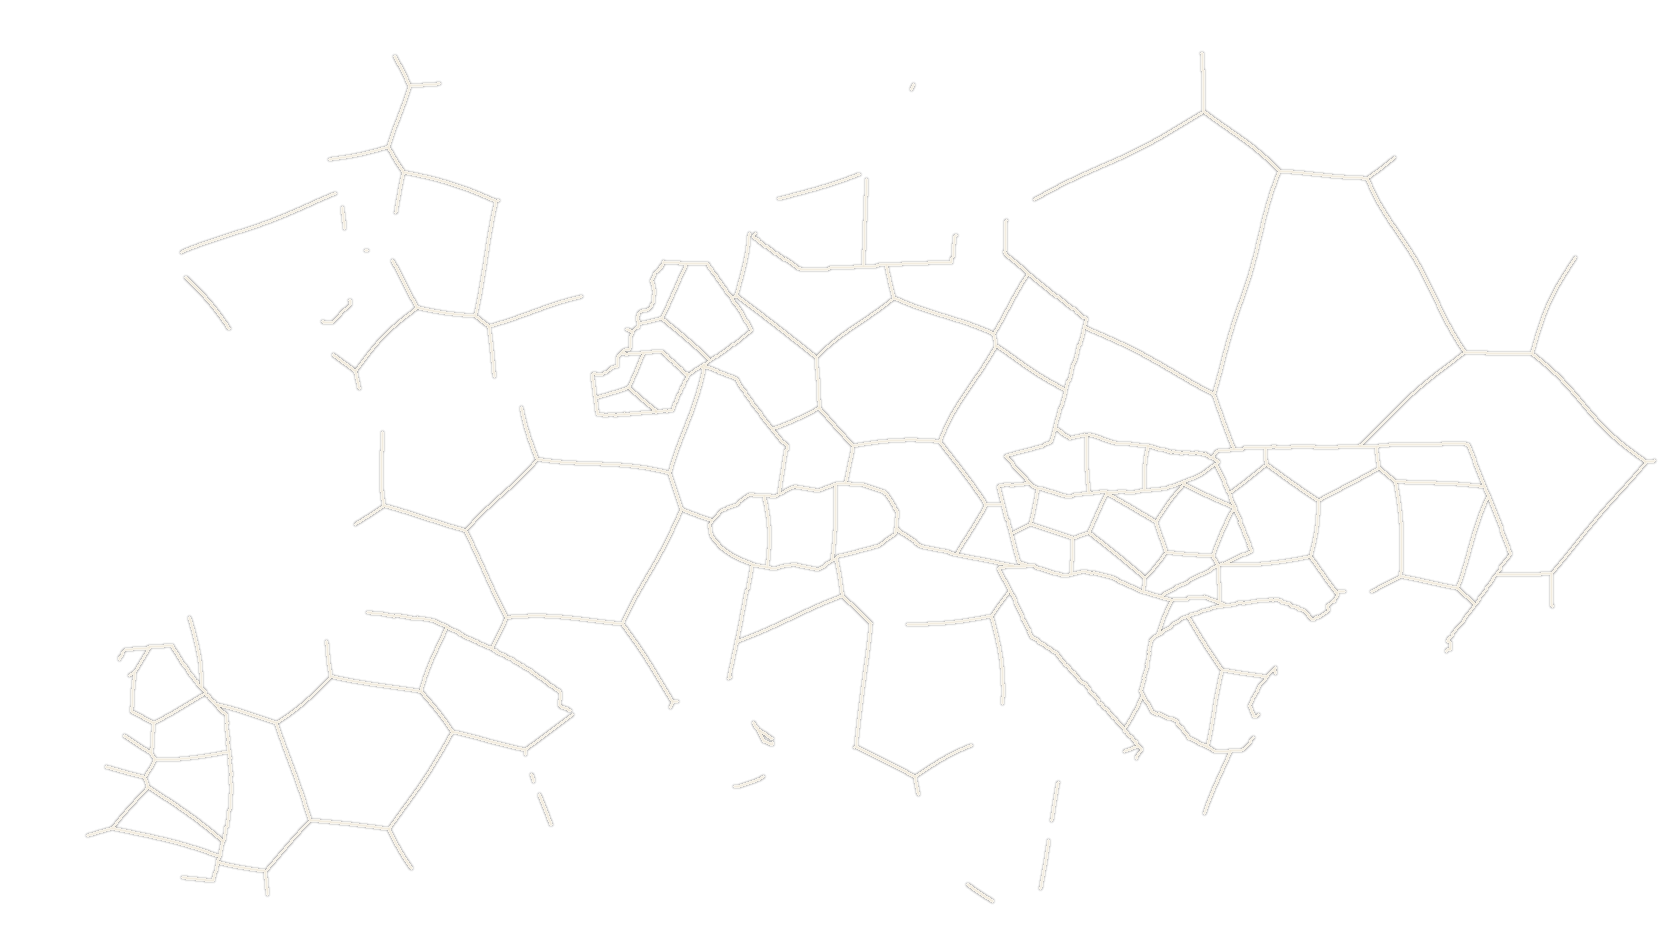
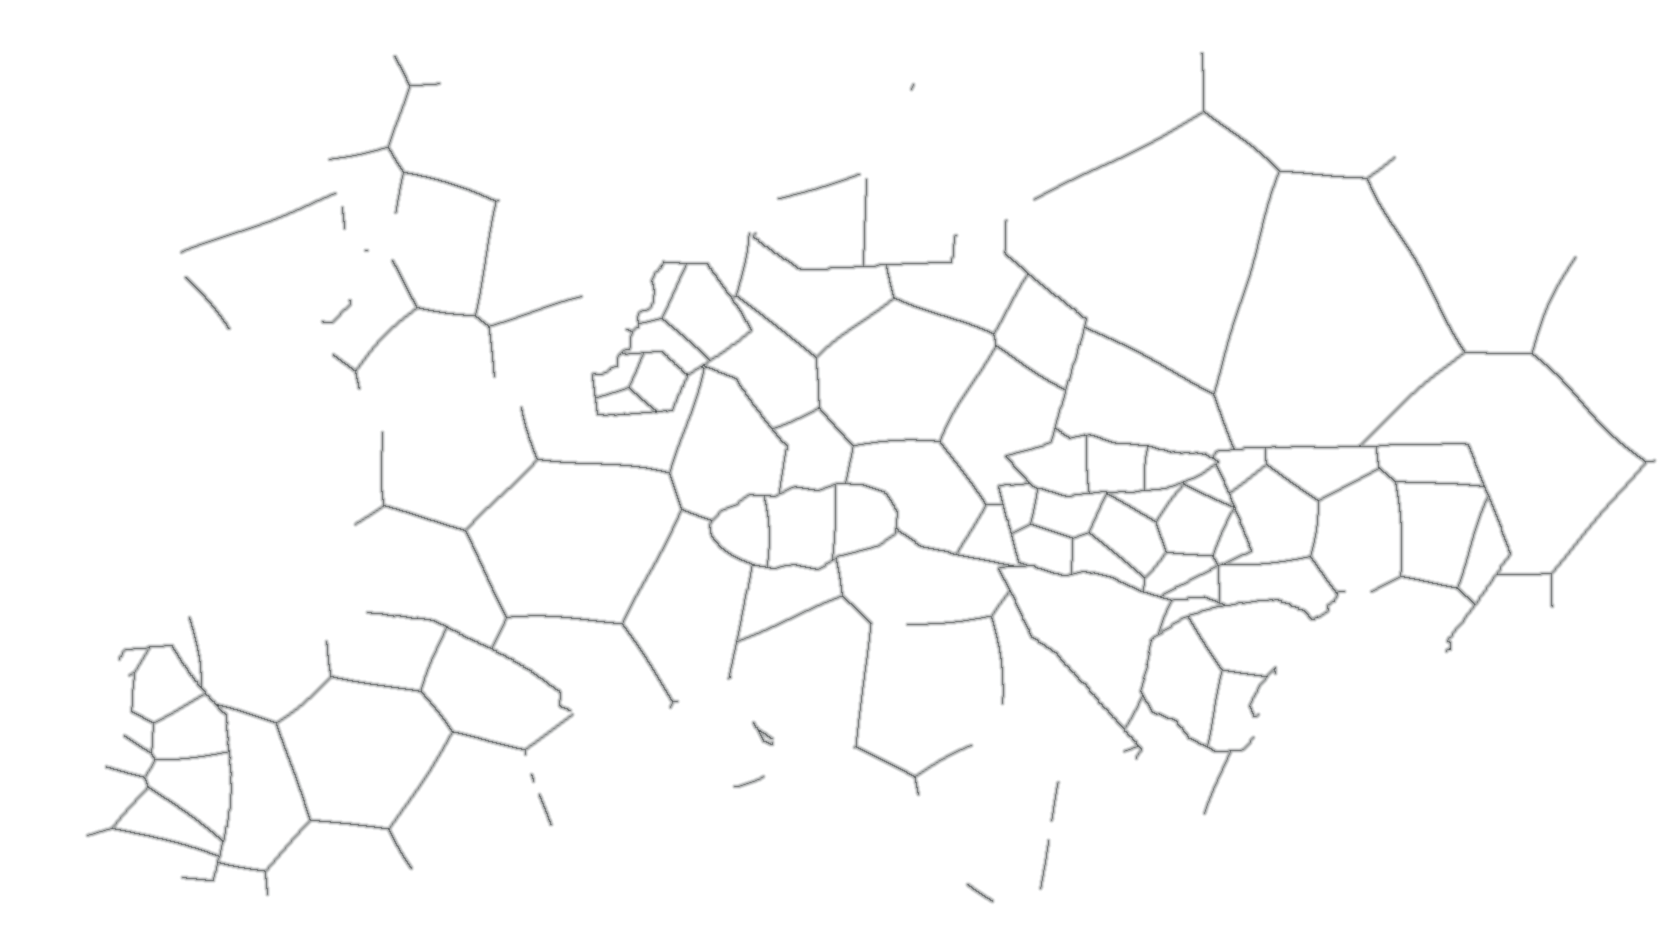
Add files via upload

diff --git a/README.md b/README.md
@@ -1,3 +1,7 @@
+## Version 1.19.5 — province border colour restoration
+
+Province borders use the previous dark charcoal line colour (#0D1314) again. The current border shapes, province layout, troop rendering, and other game mechanics are unchanged.
+
 # WW2 Royale — Version 1.19.3 (Nation Selection Hotfix)
 
 Corrects the country selection bug where playable nations were labelled `undefined` when the menu appeared before the country-name cache was populated. The picker now uses the authoritative nation names in `shared/map.json`, includes those names in its render cache key, and initializes nation names before loading optional seasonal artwork. All nine playable nations have proper labels, including Portugal.
